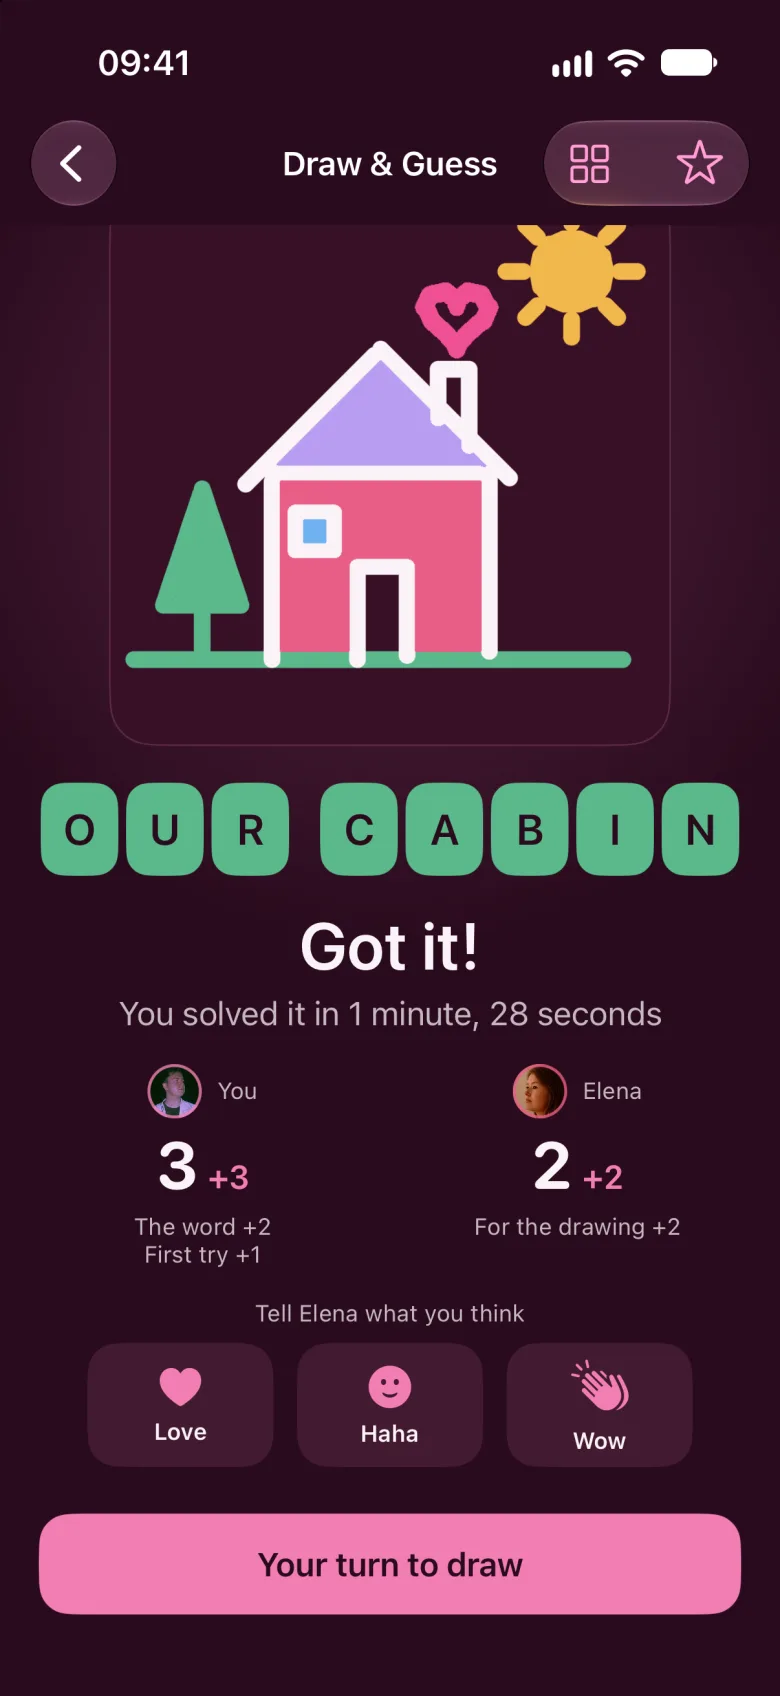
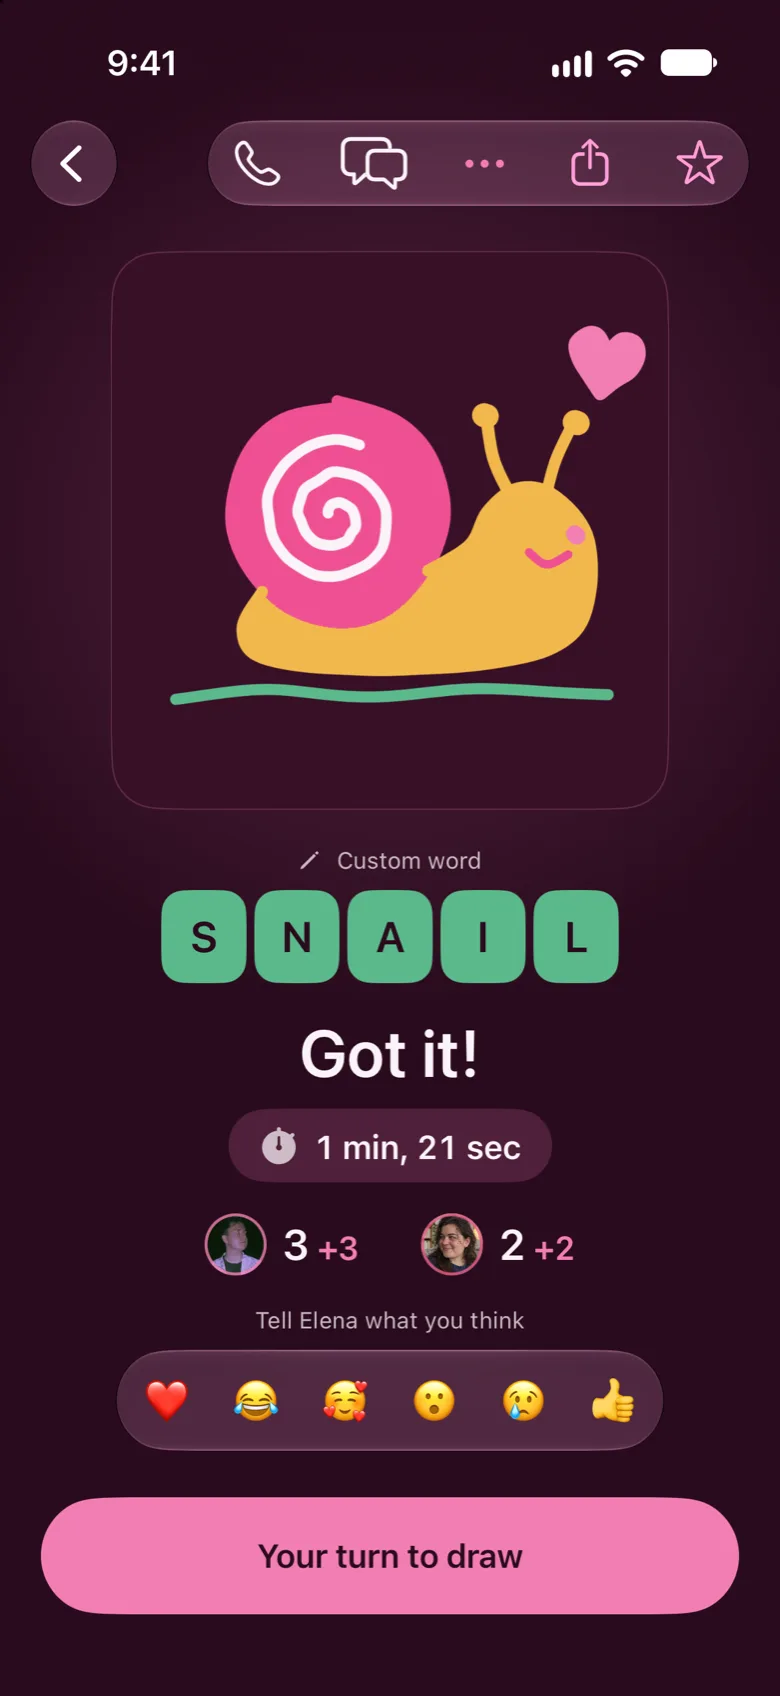
chore(marketing): capture the website screens again with Elena's new photo
Nine screens show Elena's avatar, so they are real captures from the app
again, on the test couple seeded by scripts/app-store-content plus a Four in
a Row game, drawn board marks and a Mind Meld played as each account. Draw &
Guess now shows the seeded snail and the chat the first-meal question, so
their alt texts say so.

diff --git a/marketing/src/lib/i18n/dictionaries/marketing.en.ts b/marketing/src/lib/i18n/dictionaries/marketing.en.ts
@@ -42,7 +42,7 @@ export const marketingEn = {
       },
       {
         src: 'draw-guess-solved',
-        alt: 'Draw & Guess after a correct guess. Elena drew their cabin, and both partners got points.',
+        alt: 'Draw & Guess after a correct guess. Elena drew a snail, and both partners got points.',
       },
       {
         src: 'connect-four',
@@ -130,11 +130,11 @@ export const marketingEn = {
         screens: [
           {
             src: 'questions',
-            alt: 'Today\'s questions. Both partners have answered, and Elena\'s answers are new.',
+            alt: 'The Chats tab. Both partners have answered today\'s question, and Elena\'s answer is new.',
           },
           {
             src: 'question-chat',
-            alt: 'A chat about where to go for a weekend. Both partners answered Copenhagen and are planning the trip.',
+            alt: 'A chat about the first meal to share when you meet. Elena answered homemade pizza, you answered pancakes, and you agree on both.',
           },
         ],
       },

diff --git a/marketing/src/lib/i18n/dictionaries/marketing.no.ts b/marketing/src/lib/i18n/dictionaries/marketing.no.ts
@@ -42,7 +42,7 @@ export const marketingNo = {
       },
       {
         src: 'draw-guess-solved',
-        alt: 'Tegn og gjett etter et riktig svar. Elena tegnet hytta deres, og begge fikk poeng.',
+        alt: 'Tegn og gjett etter et riktig svar. Elena tegnet en snegle, og begge fikk poeng.',
       },
       {
         src: 'connect-four',
@@ -130,11 +130,11 @@ export const marketingNo = {
         screens: [
           {
             src: 'questions',
-            alt: 'Dagens spørsmål. Begge har svart, og svarene fra Elena er nye.',
+            alt: 'Samtaler-fanen. Begge har svart på dagens spørsmål, og svaret fra Elena er nytt.',
           },
           {
             src: 'question-chat',
-            alt: 'En chat om hvor dere skal på helgetur. Begge svarte København og planlegger turen.',
+            alt: 'En chat om det første måltidet dere skal dele når dere møtes. Elena svarte hjemmelaget pizza, du svarte pannekaker, og dere blir enige om begge.',
           },
         ],
       },
